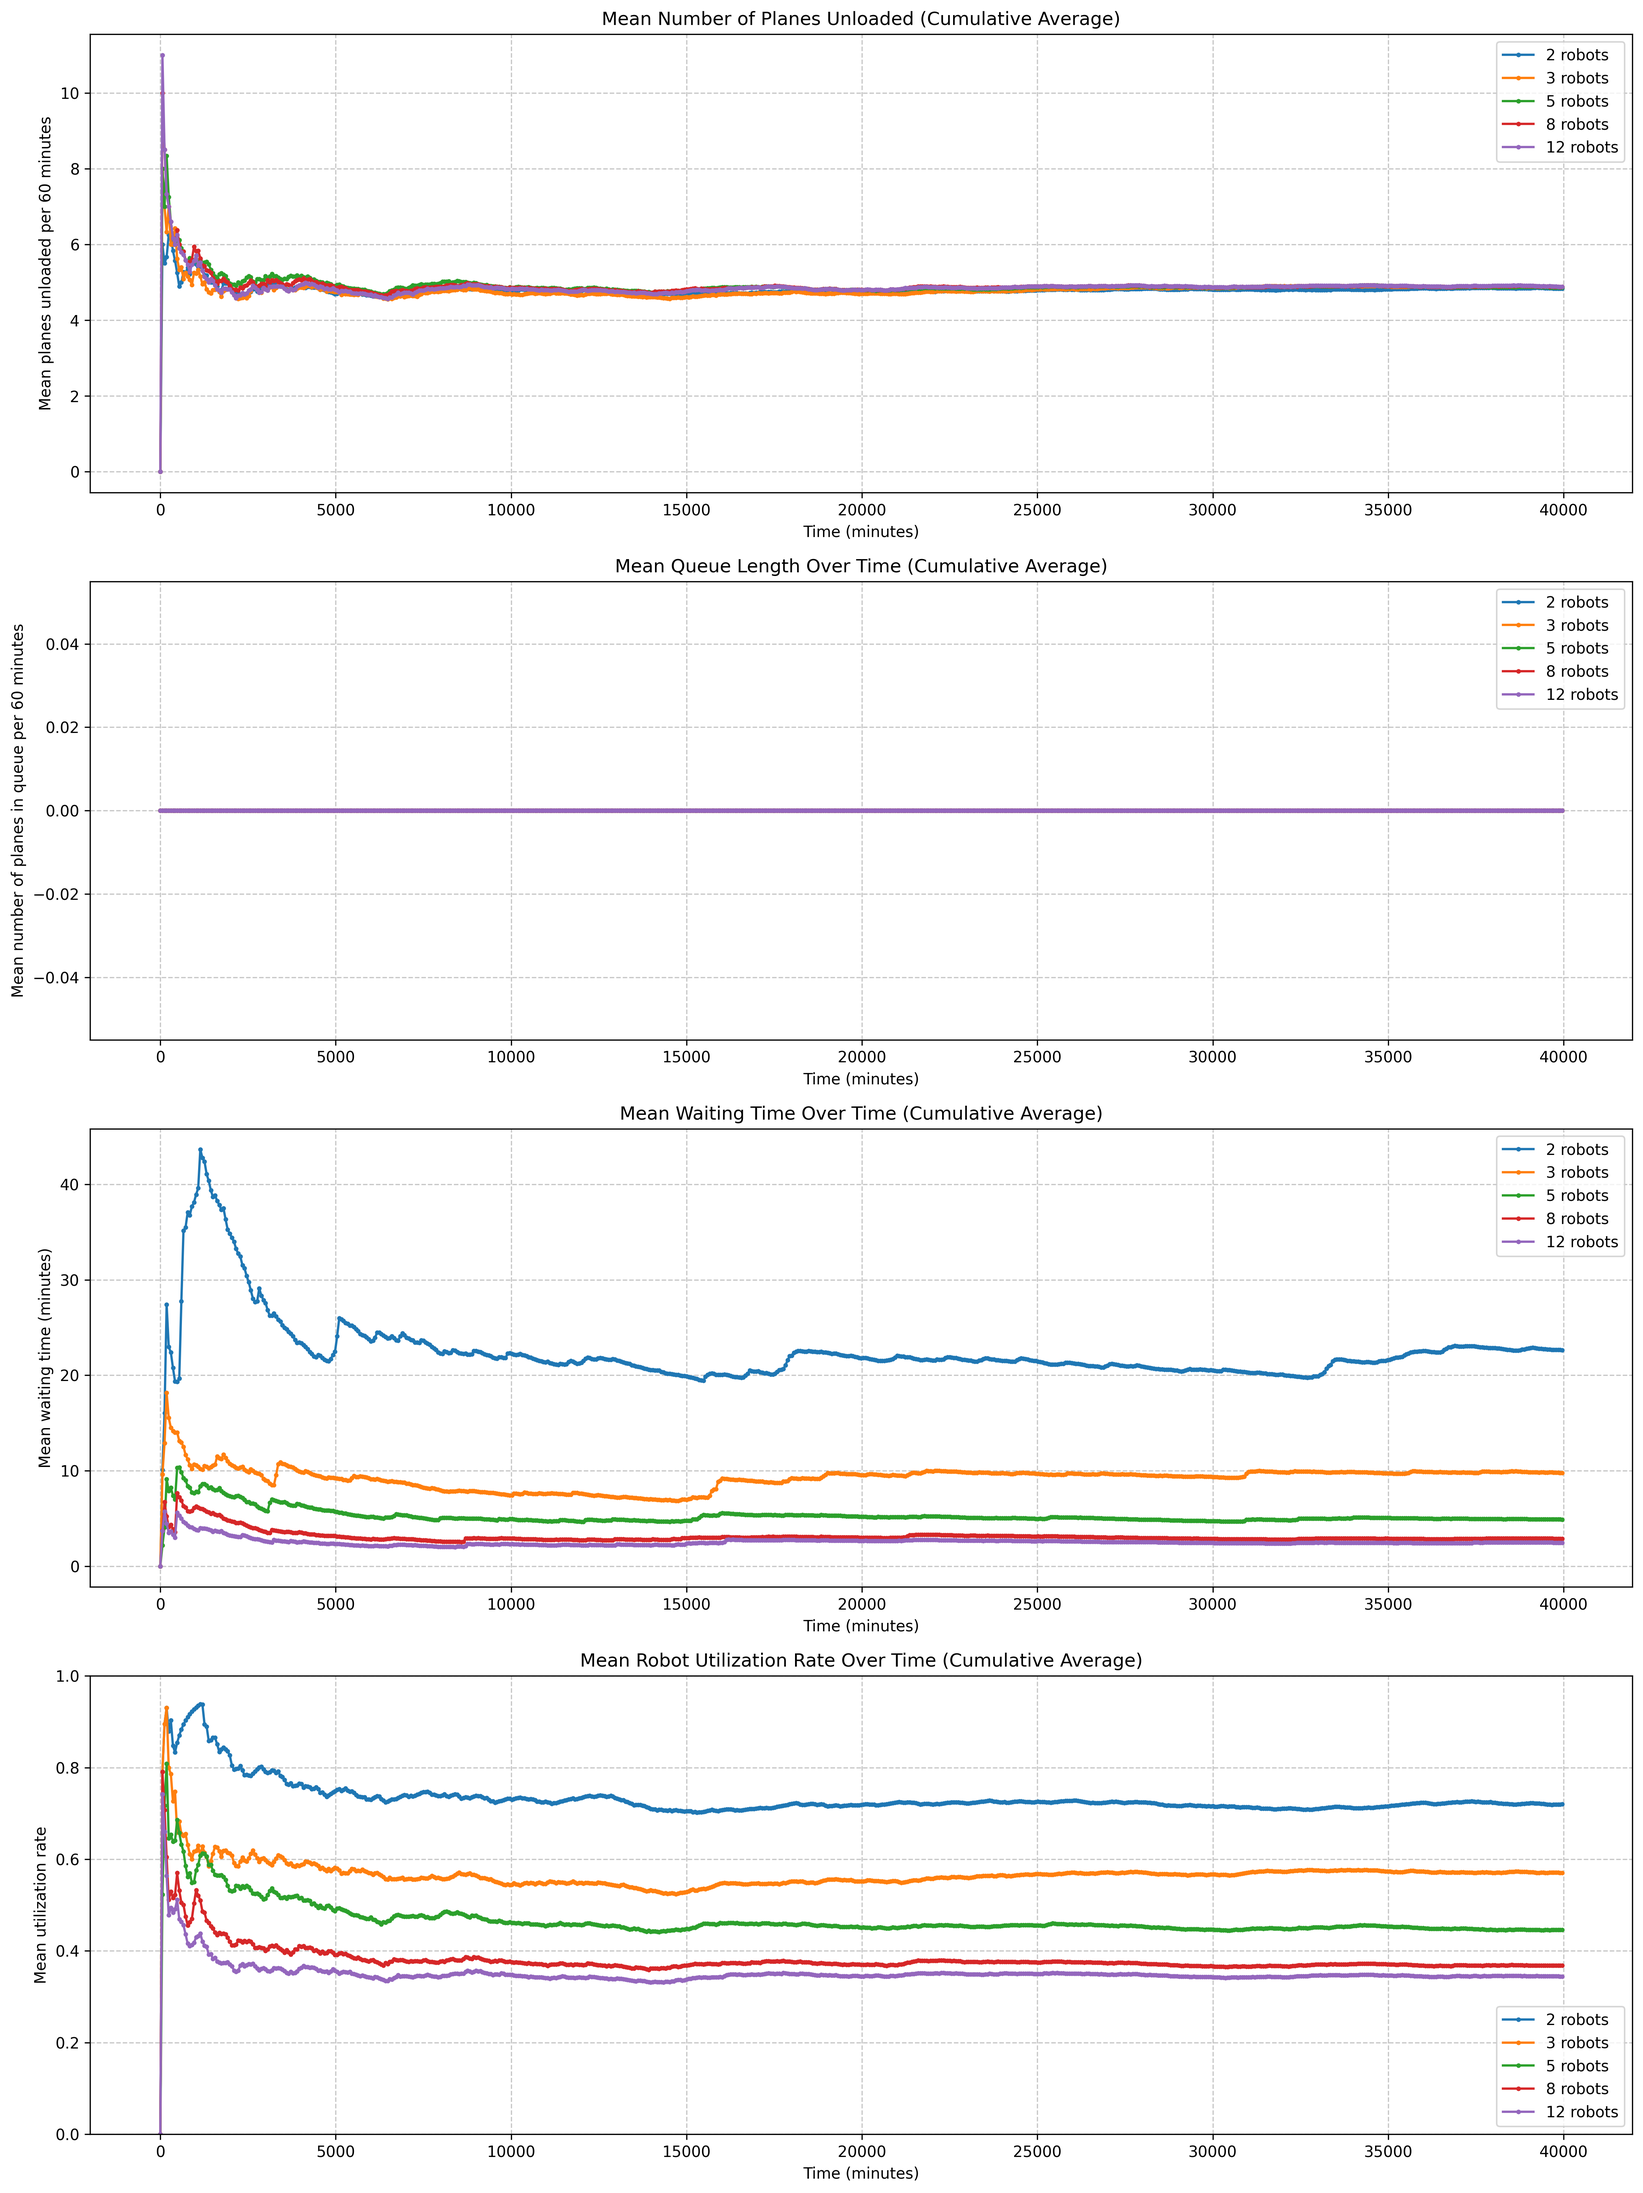
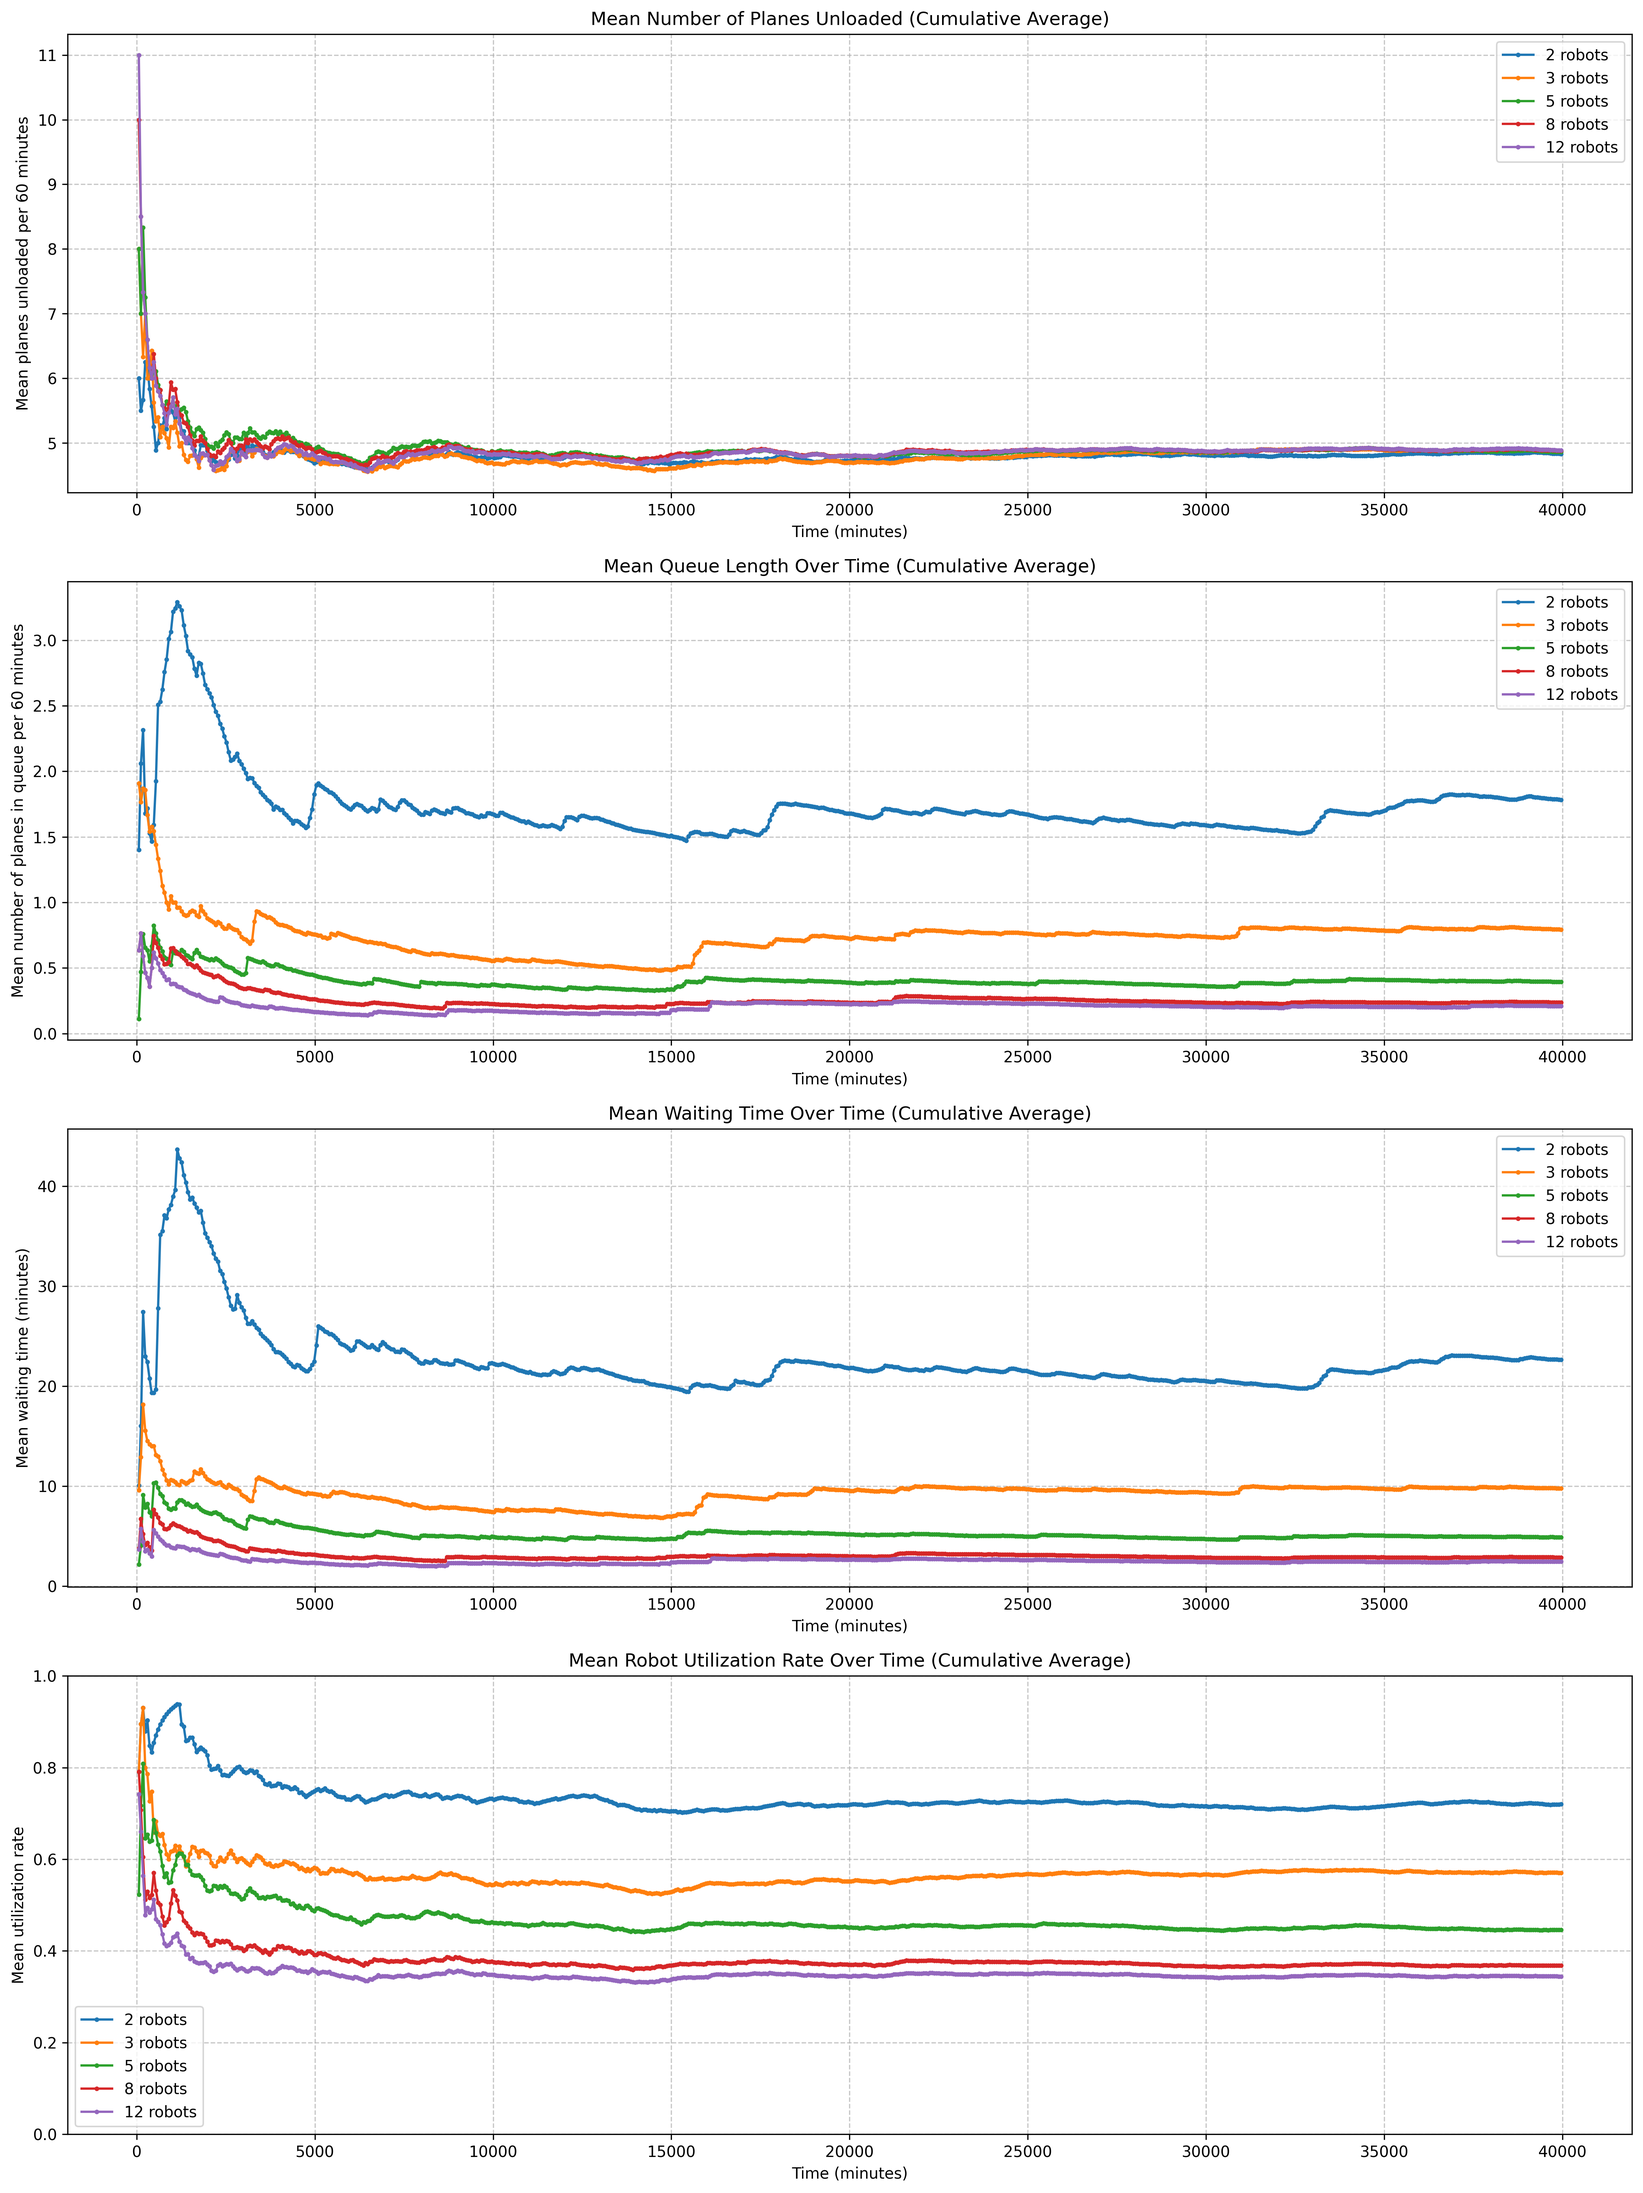
fix: calculate_mean_queue_length

diff --git a/tp1/src/visualization/plots.py b/tp1/src/visualization/plots.py
@@ -12,7 +12,7 @@ class SimulationPlots:
         Returns the figure and axes for further customization or combination with other plots.
         """
         fig, ax = plt.subplots(figsize=(20, 5))
-        time_windows = range(0, simulation_duration, window_size)
+        time_windows = range(window_size, simulation_duration, window_size)
 
         for scenario_num, planes in scenarios.items():
             mean_planes = [AirPlane.calculate_mean_unloaded_rate(planes, window_end, window_size) for window_end in time_windows]
@@ -34,10 +34,10 @@ class SimulationPlots:
         Returns the figure and axes for further customization or combination with other plots.
         """
         fig, ax = plt.subplots(figsize=(20, 5))
-        time_windows = range(0, simulation_duration, window_size)
+        time_windows = range(window_size, simulation_duration, window_size)
 
         for scenario_num, planes in scenarios.items():
-            mean_queue_lengths = AirPlane.calculate_cumulative_mean_queue_length(planes, simulation_duration, window_size)
+            mean_queue_lengths = [AirPlane.calculate_mean_queue_length(planes, window_end) for window_end in time_windows]
             ax.plot(time_windows, mean_queue_lengths, label=f"{scenario_num} robots", marker=".", markersize=4)
 
         ax.set_title("Mean Queue Length Over Time (Cumulative Average)")
@@ -56,7 +56,7 @@ class SimulationPlots:
         Returns the figure and axes for further customization or combination with other plots.
         """
         fig, ax = plt.subplots(figsize=(20, 5))
-        time_windows = range(0, simulation_duration, window_size)
+        time_windows = range(window_size, simulation_duration, window_size)
 
         for scenario_num, planes in scenarios.items():
             mean_waiting_times = [AirPlane.calculate_mean_waiting_time(planes, window_end) for window_end in time_windows]
@@ -78,7 +78,7 @@ class SimulationPlots:
         Returns the figure and axes for further customization or combination with other plots.
         """
         fig, ax = plt.subplots(figsize=(20, 5))
-        time_windows = range(0, simulation_duration, window_size)
+        time_windows = range(window_size, simulation_duration, window_size)
 
         for scenario_num, planes in scenarios.items():
             mean_utilization_rates = [

diff --git a/tp1/src/models/airplane.py b/tp1/src/models/airplane.py
@@ -23,6 +23,9 @@ class AirPlane:
     service_start_time: Optional[float] = None
     service_end_time: Optional[float] = None
 
+    # QUEUE:
+    queue_length: int = 0
+
     @property
     def waiting_time(self) -> float:
         """Calculate the time the plane spent waiting in queue."""
@@ -50,31 +53,12 @@ class AirPlane:
         return planes_unloaded / windows_elapsed if windows_elapsed > 0 else 0
 
     @classmethod
-    def calculate_queue_time_at_time(cls, planes: list["AirPlane"], time: int) -> float:
-        """Calculate the total queue time for all planes up to a given time."""
-        return sum(
-            min(time, plane.service_start_time or time) - plane.queue_entry_time
-            for plane in planes
-            if plane.queue_entry_time is not None and plane.queue_entry_time <= time
-        )
-
-
-    @classmethod
-    def calculate_cumulative_mean_queue_length(cls, planes: list["AirPlane"], simulation_duration: int, windows_size: int) -> list[float]:
-        """Calculate the cumulative mean queue length up to a given time."""
-        # sum the queue length at each sampling point (e.g., every minute) and divide by the number of sampling points so far.
-        queue_lengths = [
-            sum(
-                1 for plane in planes if plane.queue_entry_time is not None and plane.queue_entry_time <= time and plane.service_start_time is None
-            )
-            for time in range(0, simulation_duration)
-        ]
-        # Calculate the cumulative mean queue length
-        cumulative_mean_queue_lengths = [
-            sum(queue_lengths[:i + 1]) / ((i + 1)) if i > 0 else queue_lengths[i]
-            for i in range(len(queue_lengths))
-        ]
-        return cumulative_mean_queue_lengths[::windows_size]
+    def calculate_mean_queue_length(cls, planes: list["AirPlane"], time: int) -> float:
+        """Calculate the mean number of planes in queue up to a given time."""
+        arrived_planes = [p for p in planes if p.queue_entry_time <= time]
+        if not arrived_planes:
+            return 0
+        return sum(p.queue_length for p in arrived_planes) / len(arrived_planes)
 
     @classmethod
     def get_completed_planes_by_time(cls, planes: list["AirPlane"], time: int) -> list["AirPlane"]:

diff --git a/tp1/src/models/airport.py b/tp1/src/models/airport.py
@@ -47,7 +47,7 @@ class Airport:
 
     def add_plane(self, arrival_time: float) -> AirPlane:
         """Add a new plane to the system."""
-        plane = AirPlane(id=len(self.planes), queue_entry_time=arrival_time)
+        plane = AirPlane(id=len(self.planes), queue_entry_time=arrival_time, queue_length=len(self.queue))
         self.planes.append(plane)
         self.queue.append(plane)
         return plane
